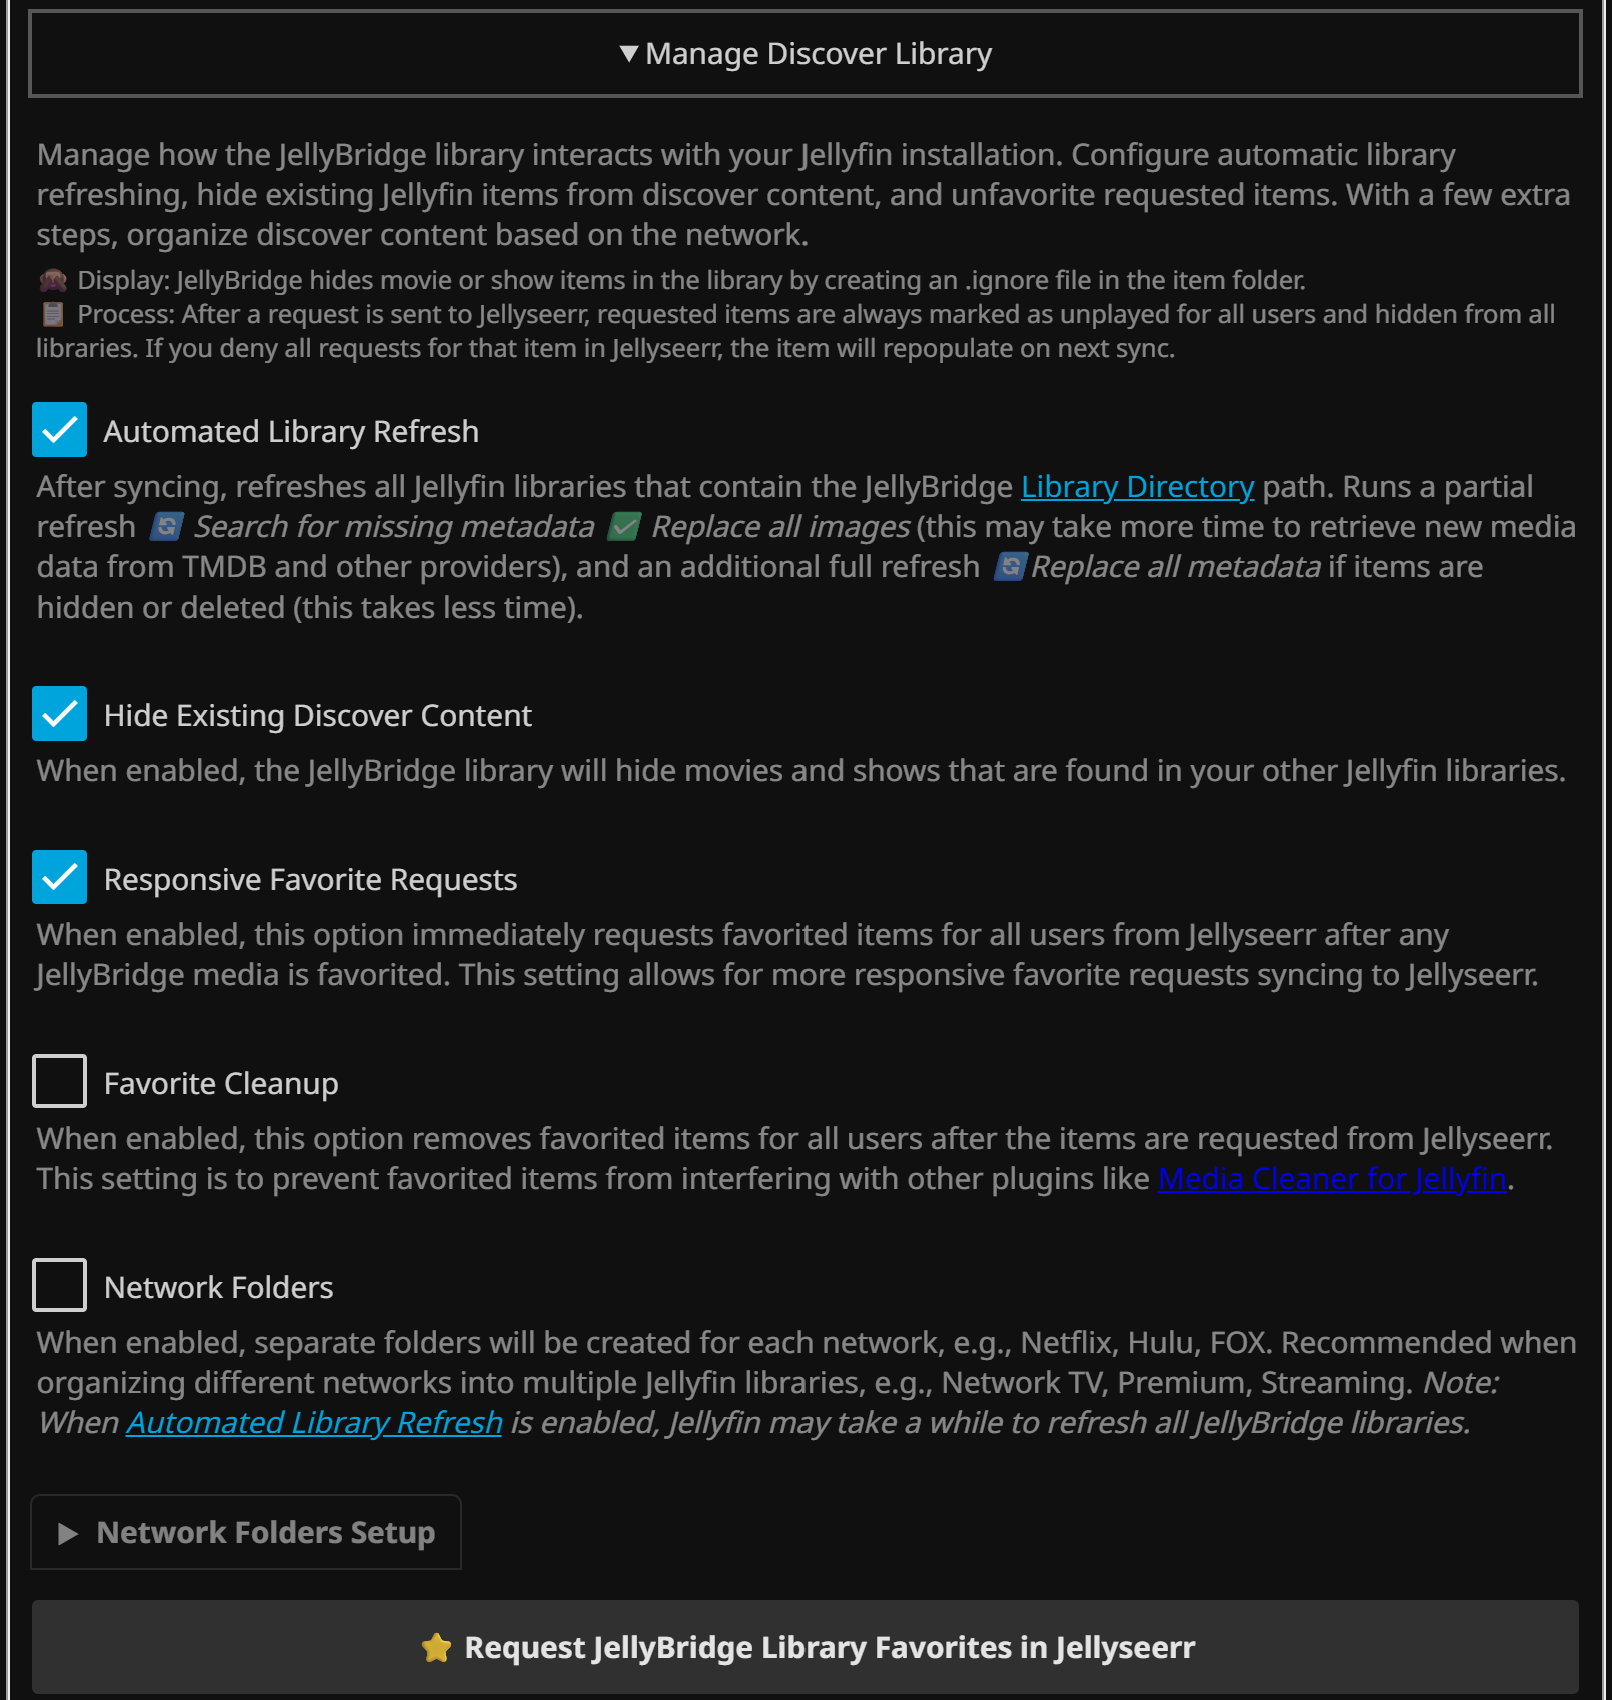
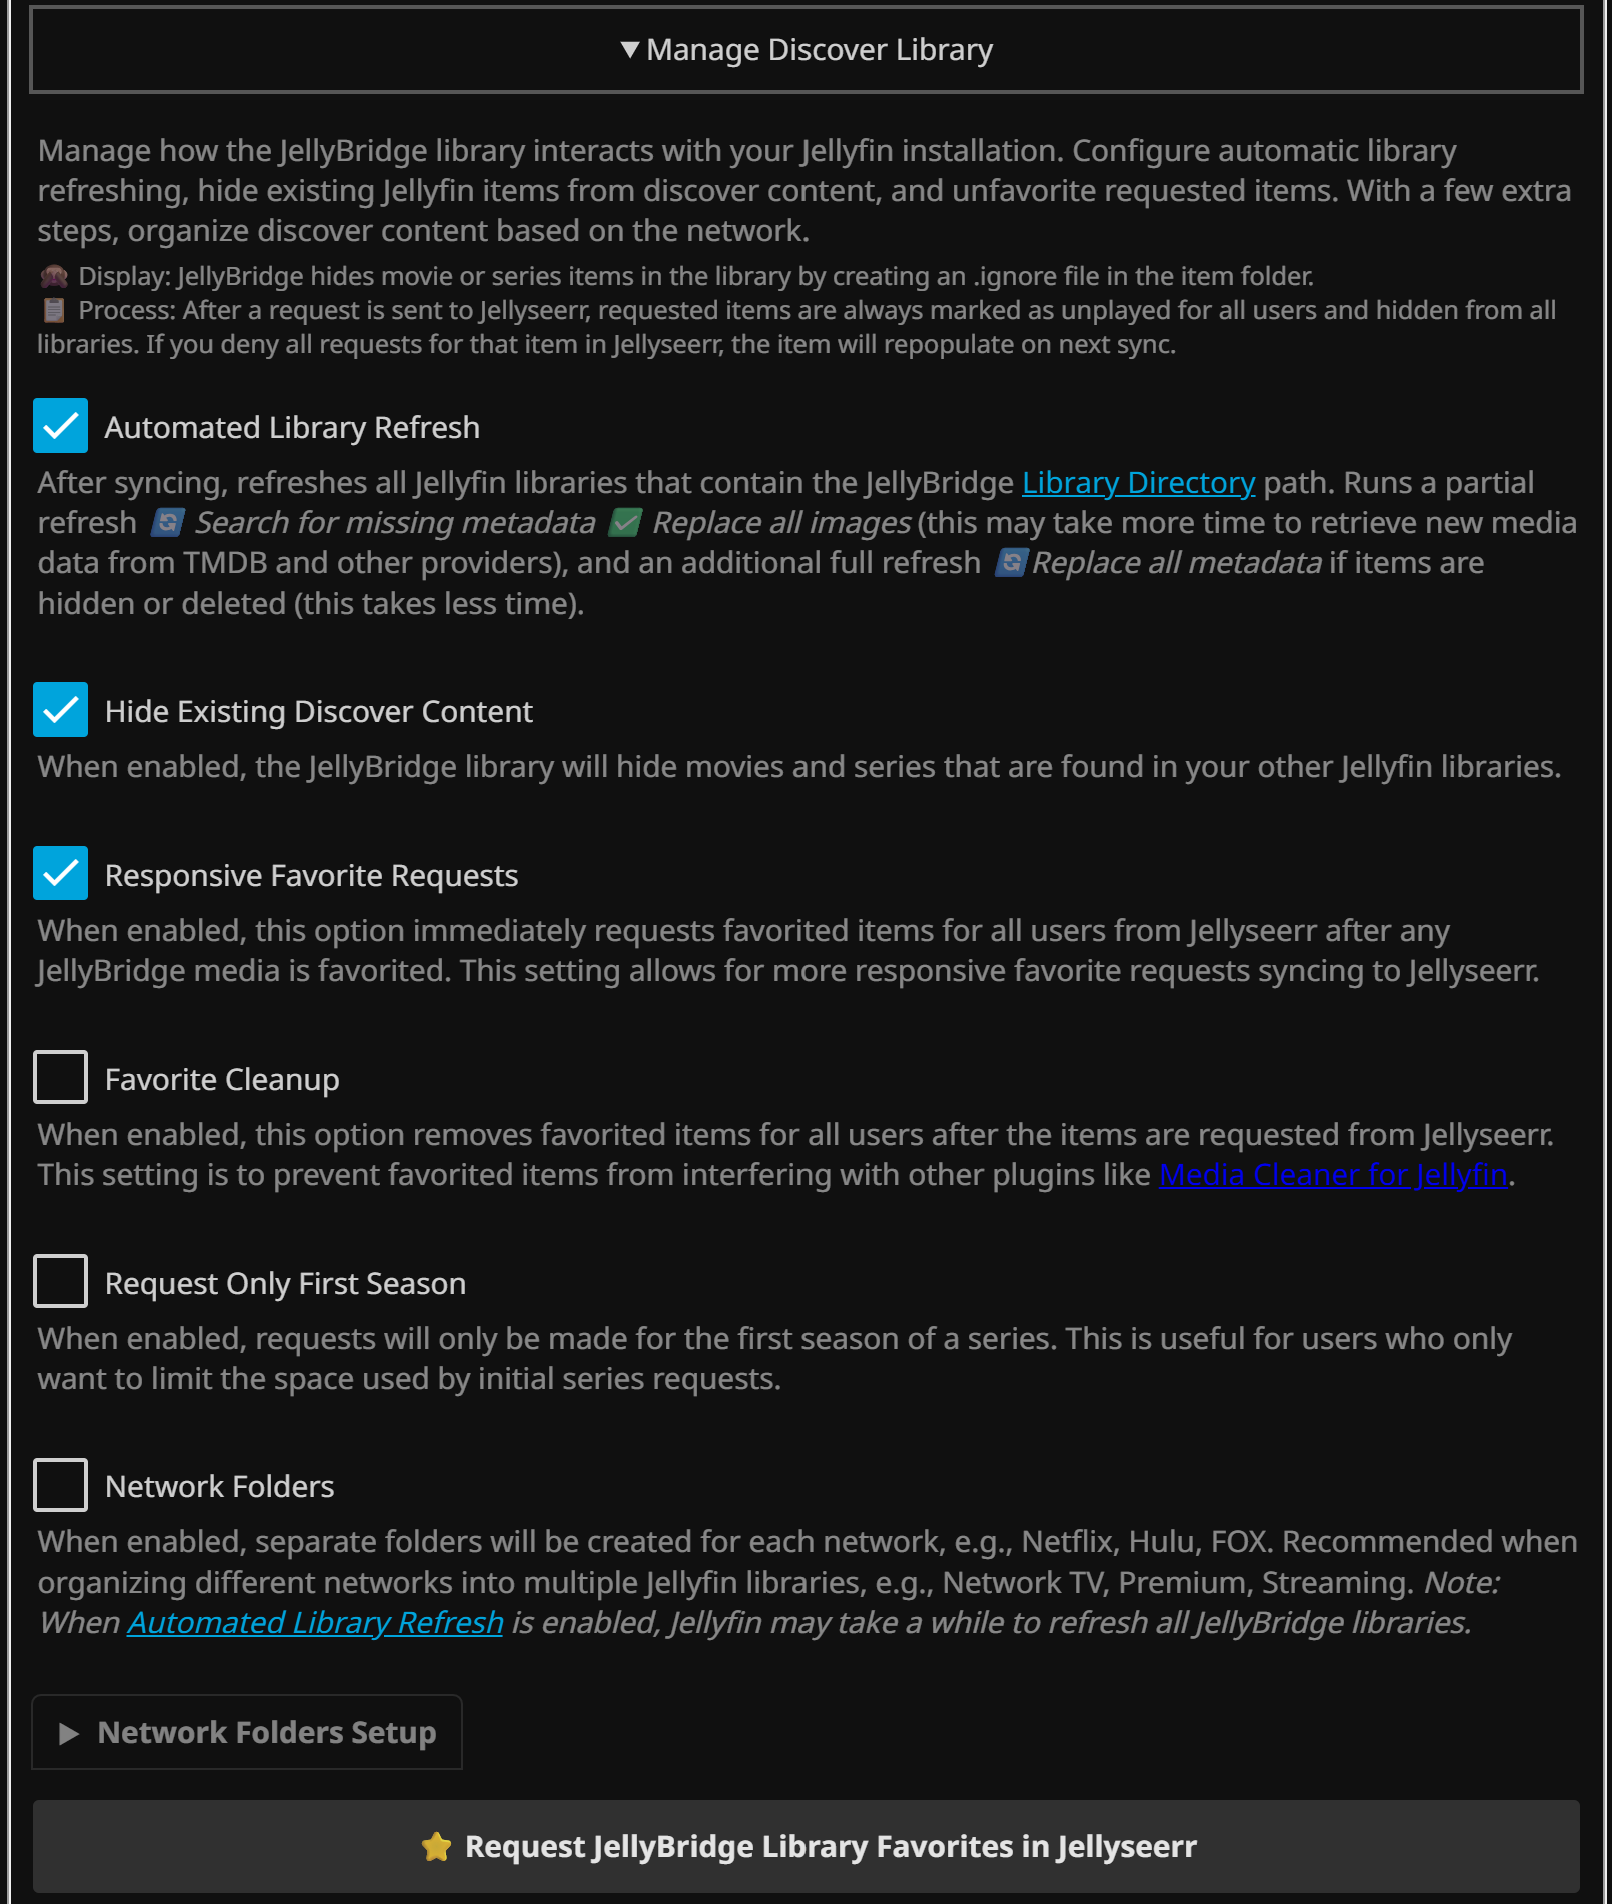
Release v2.2.32 - add config option to only request the first season of series

diff --git a/src/Jellyfin.Plugin.JellyBridge/Configuration/ConfigurationPage.html b/src/Jellyfin.Plugin.JellyBridge/Configuration/ConfigurationPage.html
@@ -646,7 +646,7 @@
                                     <span class="material-icons checkboxIcon checkboxIcon-unchecked" aria-hidden="true"></span>
                                 </span>
                             </label>
-                            <div class="fieldDescription">When enabled, the JellyBridge library will hide movies and series that are found in your other Jellyfin libraries.</div>
+                            <div class="fieldDescription">The JellyBridge library will hide movies and series that are found in your other Jellyfin libraries.</div>
                         </div>
 
                         <div class="checkboxContainer checkboxContainer-withDescription">
@@ -658,7 +658,7 @@
                                     <span class="material-icons checkboxIcon checkboxIcon-unchecked" aria-hidden="true"></span>
                                 </span>
                             </label>
-                            <div class="fieldDescription">When enabled, this option immediately requests favorited items for all users from Jellyseerr after any JellyBridge media is favorited. This setting allows for more responsive favorite requests syncing to Jellyseerr.</div>
+                            <div class="fieldDescription">Immediately request favorited items for all users from Jellyseerr after any JellyBridge media is favorited. This allows for more responsive favorite requests syncing to Jellyseerr.</div>
                         </div>
                         
                         <div class="checkboxContainer checkboxContainer-withDescription">
@@ -670,7 +670,7 @@
                                     <span class="material-icons checkboxIcon checkboxIcon-unchecked" aria-hidden="true"></span>
                                 </span>
                             </label>
-                            <div class="fieldDescription">When enabled, this option removes favorited items for all users after the items are requested from Jellyseerr. This setting is to prevent favorited items from interfering with other plugins like <a target="_blank" href="https://github.com/shemanaev/jellyfin-plugin-media-cleaner">Media Cleaner for Jellyfin</a>.</div>
+                            <div class="fieldDescription">Remove favorited items for all users after the items are requested from Jellyseerr. This is to prevent favorited items from interfering with other plugins like <a target="_blank" href="https://github.com/shemanaev/jellyfin-plugin-media-cleaner">Media Cleaner for Jellyfin</a>.</div>
                         </div>
                         <div class="checkboxContainer checkboxContainer-withDescription">
                             <label class="emby-checkbox-label">
@@ -681,7 +681,7 @@
                                     <span class="material-icons checkboxIcon checkboxIcon-unchecked" aria-hidden="true"></span>
                                 </span>
                             </label>
-                            <div class="fieldDescription">When enabled, requests will only be made for the first season of a series. This is useful for users who only want to limit the space used by initial series requests.</div>
+                            <div class="fieldDescription">New favorited series will only request the first season, rather than the default of all seasons. This is useful for users who only want to limit the space used by initial series requests. Any additional season requests must be made from the Jellyseerr interface.</div>
                         </div>
                         
                         <div class="checkboxContainer checkboxContainer-withDescription" id="UseNetworkFoldersContainer">
@@ -693,7 +693,7 @@
                                     <span class="material-icons checkboxIcon checkboxIcon-unchecked" aria-hidden="true"></span>
                                 </span>
                             </label>
-                            <div class="fieldDescription">When enabled, separate folders will be created for each network, e.g., Netflix, Hulu, FOX. Recommended when organizing different networks into multiple Jellyfin libraries, e.g., Network TV, Premium, Streaming. <i>Note: When <span class="link" data-target-page="ManageJellyseerrLibraryContainer">Automated Library Refresh</span> is enabled, Jellyfin may take a while to refresh all JellyBridge libraries.</i></div>
+                            <div class="fieldDescription">Create separate folders for each network, e.g., Netflix, Hulu, FOX. Recommended when organizing different networks into multiple Jellyfin libraries, e.g., Network TV, Premium, Streaming. <i>Note: When <span class="link" data-target-page="ManageJellyseerrLibraryContainer">Automated Library Refresh</span> is enabled, Jellyfin may take a while to refresh all JellyBridge libraries.</i></div>
                         </div>
 
                         <details id="networkFolderOptionsDetails" class="detailedInstructions">
@@ -725,7 +725,7 @@
                                             <span class="material-icons checkboxIcon checkboxIcon-unchecked" aria-hidden="true"></span>
                                         </span>
                                     </label>
-                                    <div class="fieldDescription">When enabled, copies content to each JellyBridge library when multiple networks host the same content. For example, both HBO and Hulu have "Friends" in their discover content, and both networks are in separate Jellyfin libraries, then each library has a copy of "Friends". <i>Unchecking this box will only import discover content that is unique across all JellyBridge libraries.</i></div>
+                                    <div class="fieldDescription">Copy content to each JellyBridge library when multiple networks host the same content. For example, both HBO and Hulu have "Friends" in their discover content, and both networks are in separate Jellyfin libraries, then each library has a copy of "Friends". <i>Unchecking this box will only import discover content that is unique across all JellyBridge libraries.</i></div>
                                     <div id="addDuplicateContentWarning" class="fieldDescription cautionText" style="display: none;">
                                         <strong>💡 Recommended:</strong> If you have already synced discover content, you should <span class="link" data-target-page="recycleLibraryData">🗑️ Recycle JellyBridge Library Data</span> to remove the existing data.
                                         <br>

diff --git a/src/Jellyfin.Plugin.JellyBridge/Services/ApiService.cs b/src/Jellyfin.Plugin.JellyBridge/Services/ApiService.cs
@@ -678,7 +678,6 @@ public class ApiService
     /// </summary>
     private (Dictionary<string, object>? queryParameters, Dictionary<string, string>? templateValues) HandleEndpointSpecificLogic(JellyseerrEndpoint endpoint, PluginConfiguration config)
     {
-        var requestFirstSeason = Plugin.GetConfigOrDefault<bool>(nameof(PluginConfiguration.RequestFirstSeason), config);
         return endpoint switch
         {
             // CreateRequest endpoint - default parameters for POST body
@@ -687,7 +686,8 @@ public class ApiService
                 {
                     ["mediaType"] = "", //REQUIRED
                     ["mediaId"] = -1, //REQUIRED
-                    ["seasons"] = requestFirstSeason ? new List<int> { 1 } : "all", // Send [1] for first season, "all" otherwise
+                    ["seasons"] = Plugin.GetConfigOrDefault<bool>(nameof(PluginConfiguration.RequestFirstSeason), config) ?
+                        new List<int> { 1 } : "all", // Send [1] for first season, "all" otherwise
                     ["userId"] = 0, //REQUIRED
                     ["is4k"] = false //BUG FIX: This is not required, but the Jellyseerr API allows multiple requests if unspecified.
                 }, null

diff --git a/src/Jellyfin.Plugin.JellyBridge/Services/FavoriteService.cs b/src/Jellyfin.Plugin.JellyBridge/Services/FavoriteService.cs
@@ -112,7 +112,6 @@ public class FavoriteService
                     ["mediaType"] = mediaType,
                     ["mediaId"] = tmdbId.Value,
                     ["userId"] = user.Id,
-                    ["seasons"] = "all" // Only for seasons, but doesn't stop it from working for movies
                 };
                 
                 _logger.LogTrace("Processing Jellyseerr bridge item: {ItemName} (TMDB ID: {TmdbId}) for user {UserName}", 

diff --git a/README.md b/README.md
@@ -149,6 +149,7 @@ The plugin provides a comprehensive web-based configuration interface with the f
 - **Hide Existing Discover Content**: Excludes movies and series from the JellyBridge library if they already exist in your other Jellyfin libraries
 - **Favorite Cleanup**: Unfavorite items from the JellyBridge library after requesting them from Jellyseerr
 - **Responsive Favorite Requests**: Send requests to Jellyseerr immediately when favoriting items
+- **Request Only First Season**: New favorited series will only request the first season instead of the entire series
 - **Network Folders**: Creates separate folders for each selected network so you can organize them into different Jellyfin libraries
 - **Network Folders Setup**
   - **Instructions**: Step-by-step guide for creating network folders and libraries
@@ -190,14 +191,16 @@ The plugin provides a comprehensive web-based configuration interface with the f
 
 ## 📣 Release Notes
 
-### Version 2.2
+### Version 2.3 🆕
 
-**🆕 New in this release**
+- Request Only First Season: Option to request only the first season of a TV series instead of the entire series. This can be enabled in the Manage Discover Library section of the plugin configuration.
+
+### Version 2.2 ✨
+
 - Responsive Favorite Requests: An option, enabled by default, to immediately request favorites from Jellyseerr upon favoriting a media item.
 
 ### Version 2.0 🎉
 
-**🆕 New in this release**
 - Sort Discover Content: automated task with interval and algorithm selection (None, Random, Smart, Smartish), on-demand "Refresh Discover Library Sort Order", and optional "Mark Media Played".
 - Manage Discover Library: "Network Folders" setup instructions with "Generate Network Folders" action, optional "Show Discover Content in Multiple Libraries", and configurable "Library Prefix"; fixed content exclusions across multiple libraries; changed favorites cleanup.
 - Advanced & UX: startup run of enabled tasks with delay, task/request timeouts, new "Enable Trace Logging", and an Automated Sync Status bar (running/idle, progress, last/next run).